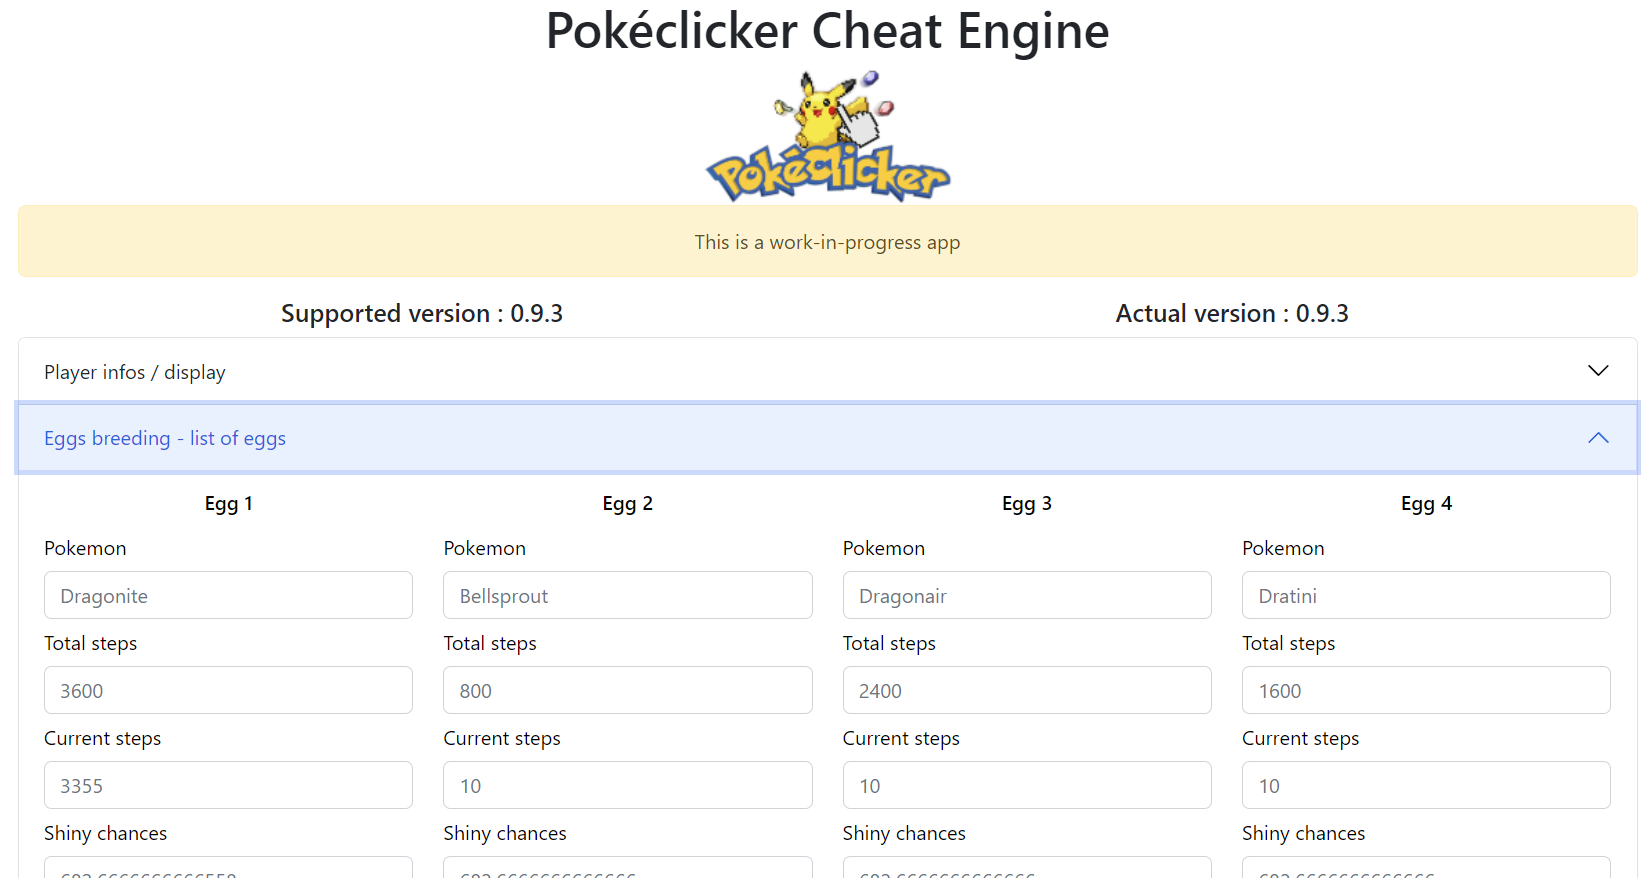
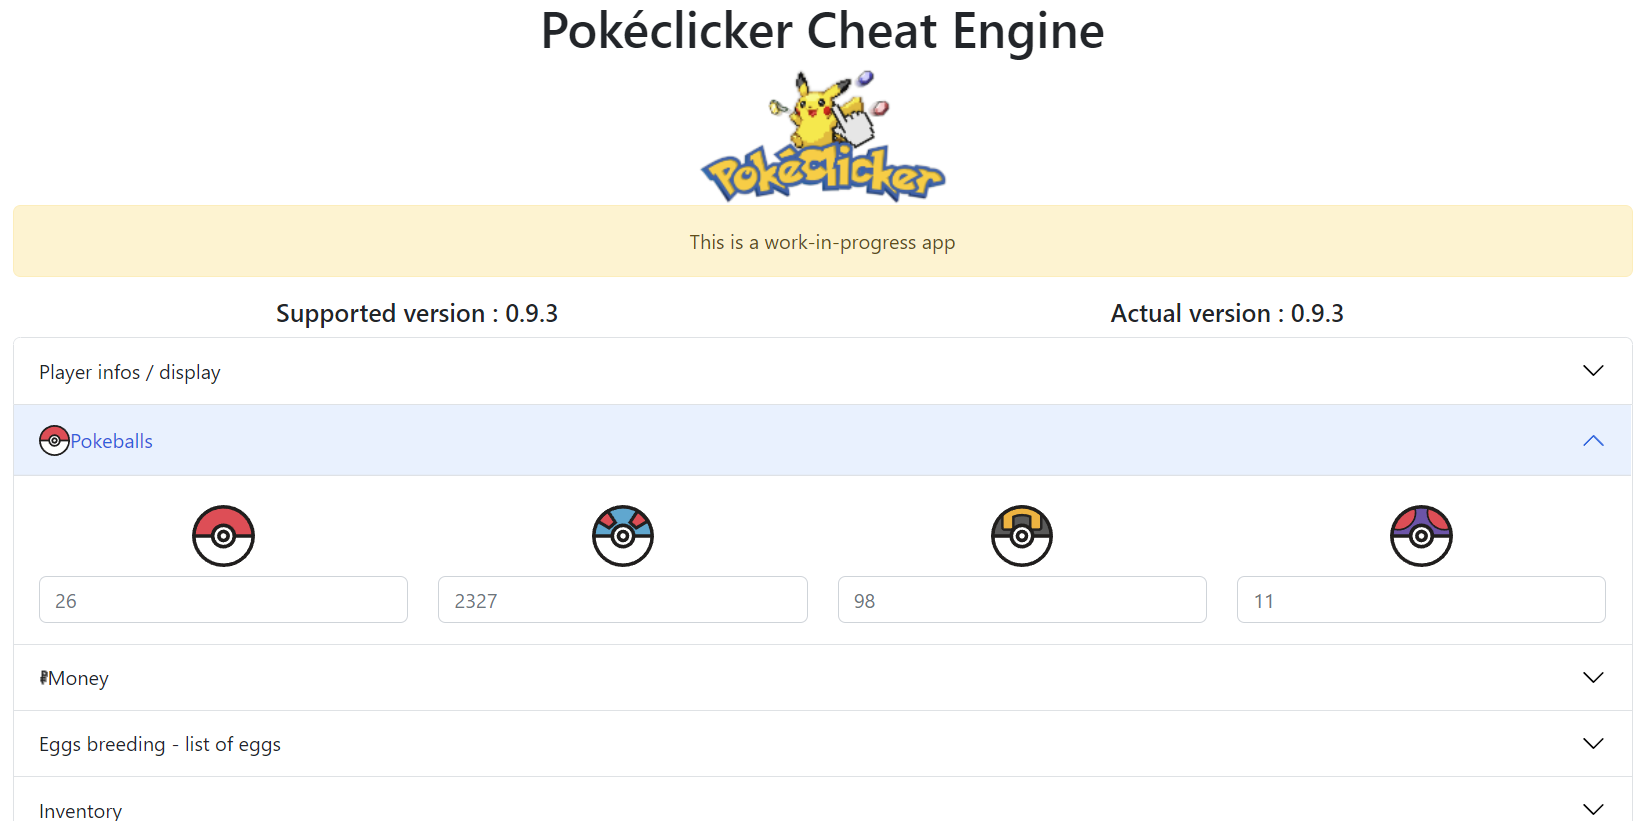
Update pokeballs images

diff --git a/index.html b/index.html
@@ -130,8 +130,8 @@
                     <h2 class="accordion-header" id="headingFour">
                         <button class="accordion-button collapsed" type="button" data-bs-toggle="collapse"
                             data-bs-target="#collapseFour" aria-expanded="false" aria-controls="collapseFour">
-                            <img src="https://static.wikia.nocookie.net/nintendo/images/d/d5/Pok%C3%A9ball_Sprite.png/revision/latest/scale-to-width-down/18?cb=20120809041534&path-prefix=en"
-                                alt="pkbl"> Pokeballs
+                            <img src="https://www.pokeclicker.com/assets/images/pokeball/Pokeball.svg" alt="pkbl"
+                                width="25"> Pokeballs
                         </button>
                     </h2>
                     <div id="collapseFour" class="accordion-collapse collapse" aria-labelledby="headingFour"
@@ -141,25 +141,24 @@
                                 <div class="row">
                                     <div class="col-sm text-center">
                                         <label for="pkbl" class="col-form-label">
-                                            <img src="https://static.wikia.nocookie.net/nintendo/images/d/d5/Pok%C3%A9ball_Sprite.png/revision/latest/scale-to-width-down/18?cb=20120809041534&path-prefix=en"
-                                                alt="pkbl">
+                                            <img src="https://www.pokeclicker.com/assets/images/pokeball/Pokeball.svg"
+                                                width="50" alt="pkbl">
                                         </label>
                                         <input type="number" class="form-control" id="pkbl" placeholder="">
                                     </div>
 
                                     <div class="col-sm text-center">
                                         <label for="grtbl" class="col-form-label">
-                                            <img src="https://static.wikia.nocookie.net/nintendo/images/0/04/Great_Ball_Sprite.png/revision/latest/scale-to-width-down/24?cb=20110417161034&path-prefix=en"
-                                                alt="grtbl">
+                                            <img src="https://www.pokeclicker.com/assets/images/pokeball/Greatball.svg"
+                                                width="50" alt="grtbl">
                                         </label>
-
                                         <input type="number" class="form-control" id="grtbl" placeholder="">
                                     </div>
 
                                     <div class="col-sm text-center">
                                         <label for="hpbl" class="col-form-label">
-                                            <img src="https://static.wikia.nocookie.net/nintendo/images/0/04/Ultra_Ball_Sprite.png/revision/latest/scale-to-width-down/24?cb=20110417161515&path-prefix=en"
-                                                alt="hpbl">
+                                            <img src="https://www.pokeclicker.com/assets/images/pokeball/Ultraball.svg"
+                                                width="50" alt="hpbl">
                                         </label>
 
                                         <input type="number" class="form-control" id="hpbl" placeholder="">
@@ -167,8 +166,8 @@
 
                                     <div class="col-sm text-center">
                                         <label for="msbl" class="col-form-label">
-                                            <img src="https://static.wikia.nocookie.net/nintendo/images/a/a1/Master_Ball_Sprite.png/revision/latest/scale-to-width-down/24?cb=20110417161310&path-prefix=en"
-                                                alt="msbl">
+                                            <img src="https://www.pokeclicker.com/assets/images/pokeball/Masterball.svg"
+                                                width="50" alt="msbl">
                                         </label>
 
                                         <input type="number" class="form-control" id="msbl" placeholder="">
@@ -191,37 +190,43 @@
                             <div class="row">
                                 <div class="col-sm text-center">
                                     <label for="money1" class="col-form-label">
-                                        <img src="https://www.pokeclicker.com/assets/images/currency/money.svg" width="60" alt="4">
+                                        <img src="https://www.pokeclicker.com/assets/images/currency/money.svg"
+                                            width="60" alt="4">
                                     </label>
                                     <input type="number" class="form-control" id="money1" placeholder="">
                                 </div>
                                 <div class="col-sm text-center">
                                     <label for="money3" class="col-form-label">
-                                        <img src="https://www.pokeclicker.com/assets/images/currency/dungeonToken.svg" width="60" alt="4">
+                                        <img src="https://www.pokeclicker.com/assets/images/currency/dungeonToken.svg"
+                                            width="60" alt="4">
                                     </label>
                                     <input type="number" class="form-control" id="money3" placeholder="">
                                 </div>
                                 <div class="col-sm text-center">
                                     <label for="money2" class="col-form-label">
-                                        <img src="https://www.pokeclicker.com/assets/images/currency/questPoint.svg" width="60" alt="4">
+                                        <img src="https://www.pokeclicker.com/assets/images/currency/questPoint.svg"
+                                            width="60" alt="4">
                                     </label>
                                     <input type="number" class="form-control" id="money2" placeholder="">
                                 </div>
                                 <div class="col-sm text-center">
                                     <label for="money4" class="col-form-label">
-                                        <img src="https://www.pokeclicker.com/assets/images/underground/diamond.svg" width="60" alt="4">
+                                        <img src="https://www.pokeclicker.com/assets/images/underground/diamond.svg"
+                                            width="60" alt="4">
                                     </label>
                                     <input type="number" class="form-control" id="money4" placeholder="">
                                 </div>
                                 <div class="col-sm text-center">
                                     <label for="money5" class="col-form-label">
-                                        <img src="https://www.pokeclicker.com/assets/images/currency/farmPoint.svg" width="60" alt="4">
+                                        <img src="https://www.pokeclicker.com/assets/images/currency/farmPoint.svg"
+                                            width="60" alt="4">
                                     </label>
                                     <input type="number" class="form-control" id="money5" placeholder="">
                                 </div>
                                 <div class="col-sm text-center">
                                     <label for="money6" class="col-form-label">
-                                        <img src="https://upload.wikimedia.org/wikipedia/commons/thumb/d/da/Emoji_u2753.svg/640px-Emoji_u2753.svg.png" width="60" alt="4">
+                                        <img src="https://upload.wikimedia.org/wikipedia/commons/thumb/d/da/Emoji_u2753.svg/640px-Emoji_u2753.svg.png"
+                                            width="60" alt="4">
                                     </label>
                                     <input type="number" class="form-control" id="money6" placeholder="">
                                 </div>
@@ -498,7 +503,7 @@
             if (document.getElementById('msbl').value) {
                 updated_content.save.pokeballs.pokeballs[3] = document.getElementById('msbl').value;
             }
-            
+
             // Money
             if (document.getElementById('money1').value) {
                 updated_content.save.wallet.currencies[0] = document.getElementById('money1').value;
